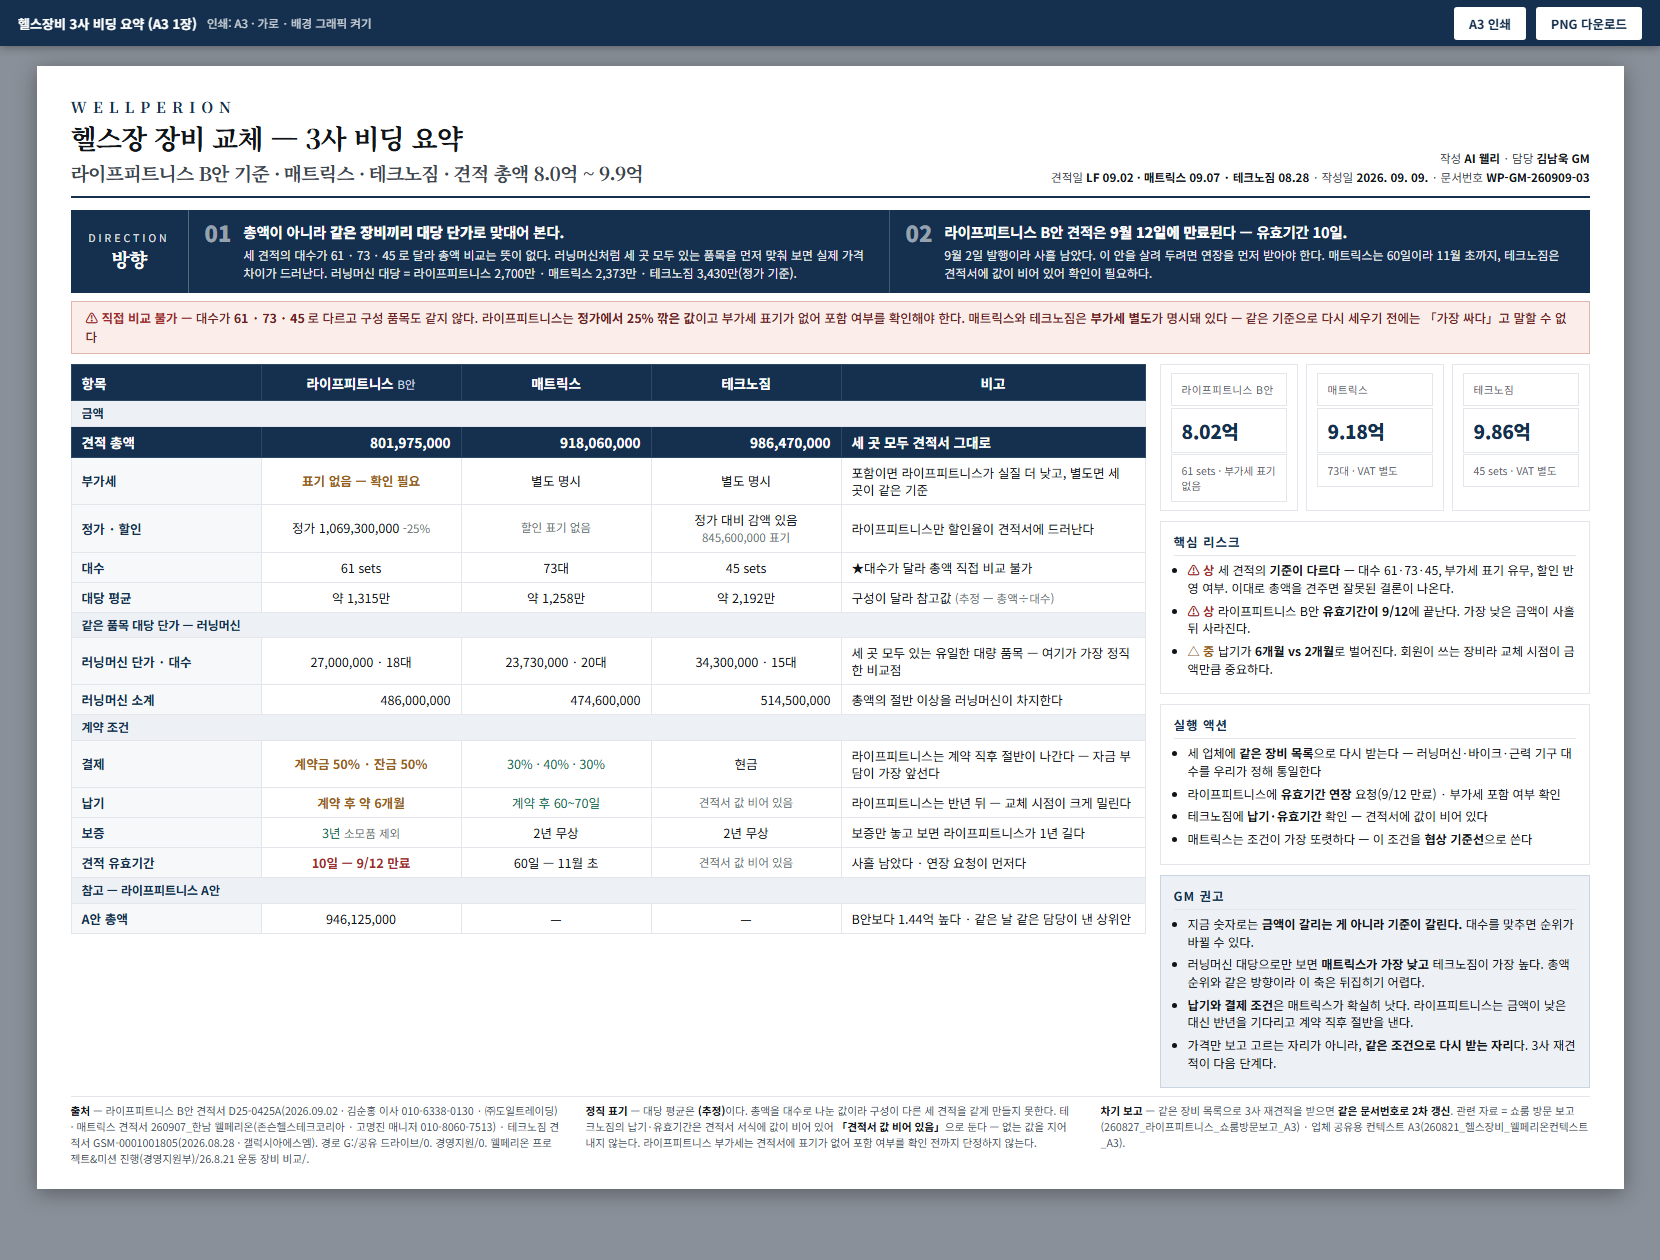
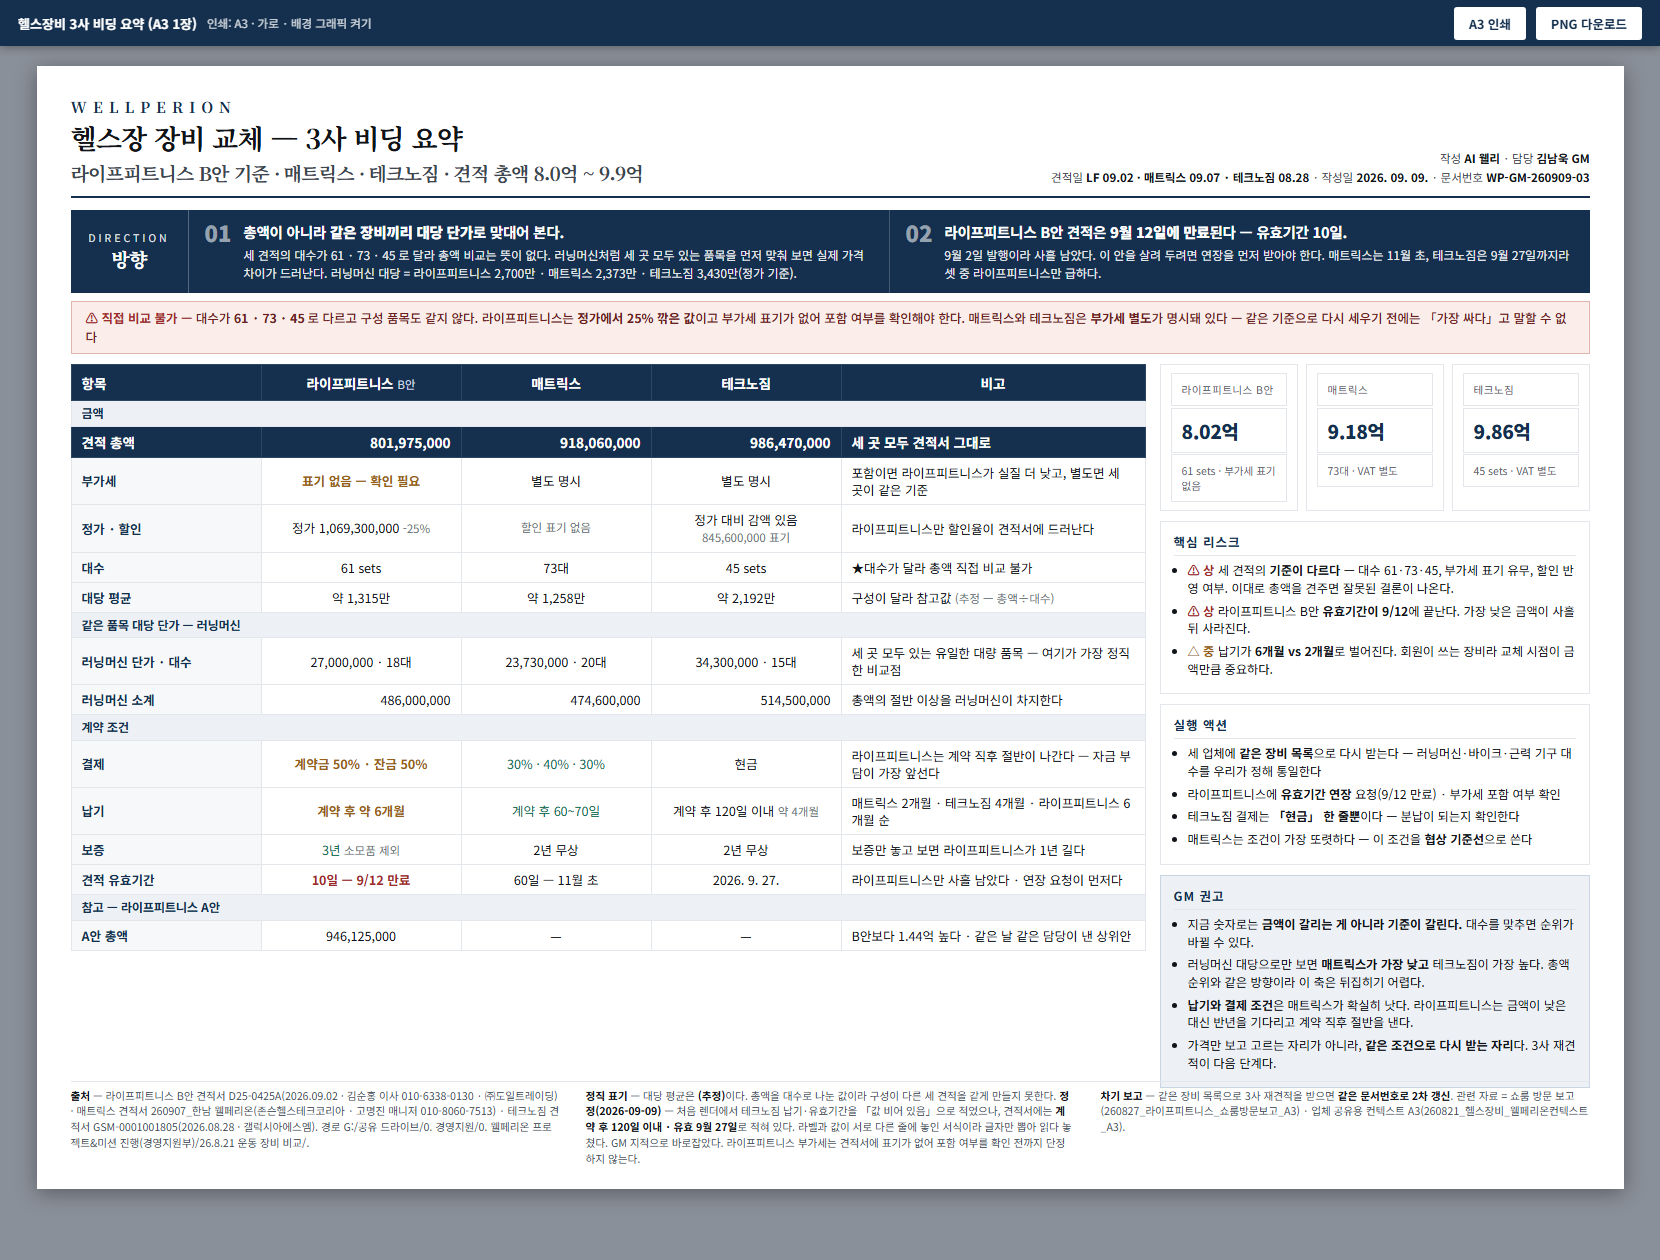
docs(gm): 헬스장비 3사 비딩 A3 정정 — 테크노짐 납기 120일·유효 9/27 (GM 지적)

diff --git a/3. 웰페리온 가이드/reports/260909_헬스장비_3사비딩_A3.html b/3. 웰페리온 가이드/reports/260909_헬스장비_3사비딩_A3.html
@@ -95,7 +95,7 @@
     <div class="lb"><span>DIRECTION</span><strong>방향</strong></div>
     <div class="items">
       <div class="it"><div class="n">01</div><div><div class="q">총액이 아니라 <b>같은 장비끼리 대당 단가</b>로 맞대어 본다.</div><div class="d">세 견적의 대수가 61 · 73 · 45 로 달라 총액 비교는 뜻이 없다. 러닝머신처럼 세 곳 모두 있는 품목을 먼저 맞춰 보면 실제 가격 차이가 드러난다. 러닝머신 대당 = 라이프피트니스 2,700만 · 매트릭스 2,373만 · 테크노짐 3,430만(정가 기준).</div></div></div>
-      <div class="it"><div class="n">02</div><div><div class="q">라이프피트니스 B안 견적은 <b>9월 12일에 만료</b>된다 — 유효기간 10일.</div><div class="d">9월 2일 발행이라 사흘 남았다. 이 안을 살려 두려면 연장을 먼저 받아야 한다. 매트릭스는 60일이라 11월 초까지, 테크노짐은 견적서에 값이 비어 있어 확인이 필요하다.</div></div></div>
+      <div class="it"><div class="n">02</div><div><div class="q">라이프피트니스 B안 견적은 <b>9월 12일에 만료</b>된다 — 유효기간 10일.</div><div class="d">9월 2일 발행이라 사흘 남았다. 이 안을 살려 두려면 연장을 먼저 받아야 한다. 매트릭스는 11월 초, 테크노짐은 9월 27일까지라 셋 중 라이프피트니스만 급하다.</div></div></div>
     </div>
   </div>
   <div class="alert">⚠ 직접 비교 불가 — <span>대수가 <b>61 · 73 · 45</b> 로 다르고 구성 품목도 같지 않다. 라이프피트니스는 <b>정가에서 25% 깎은 값</b>이고 부가세 표기가 없어 포함 여부를 확인해야 한다. 매트릭스와 테크노짐은 <b>부가세 별도</b>가 명시돼 있다 — 같은 기준으로 다시 세우기 전에는 「가장 싸다」고 말할 수 없다</span></div>
@@ -116,9 +116,9 @@
           <tr><td class="k">러닝머신 소계</td><td class="n">486,000,000</td><td class="n">474,600,000</td><td class="n">514,500,000</td><td>총액의 절반 이상을 러닝머신이 차지한다</td></tr>
           <tr class="grp"><td colspan="5">계약 조건</td></tr>
           <tr><td class="k">결제</td><td class="c warn">계약금 50% · 잔금 50%</td><td class="c" style="color:#146B4F">30% · 40% · 30%</td><td class="c">현금</td><td>라이프피트니스는 계약 직후 절반이 나간다 — 자금 부담이 가장 앞선다</td></tr>
-          <tr><td class="k">납기</td><td class="c warn">계약 후 약 6개월</td><td class="c" style="color:#146B4F">계약 후 60~70일</td><td class="c dim">견적서 값 비어 있음</td><td>라이프피트니스는 반년 뒤 — 교체 시점이 크게 밀린다</td></tr>
+          <tr><td class="k">납기</td><td class="c warn">계약 후 약 6개월</td><td class="c" style="color:#146B4F">계약 후 60~70일</td><td class="c">계약 후 120일 이내 <span class="dim">약 4개월</span></td><td>매트릭스 2개월 · 테크노짐 4개월 · 라이프피트니스 6개월 순</td></tr>
           <tr><td class="k">보증</td><td class="c" style="color:#146B4F">3년 <span class="dim">소모품 제외</span></td><td class="c">2년 무상</td><td class="c">2년 무상</td><td>보증만 놓고 보면 라이프피트니스가 1년 길다</td></tr>
-          <tr><td class="k">견적 유효기간</td><td class="c bad">10일 — 9/12 만료</td><td class="c">60일 — 11월 초</td><td class="c dim">견적서 값 비어 있음</td><td>사흘 남았다 · 연장 요청이 먼저다</td></tr>
+          <tr><td class="k">견적 유효기간</td><td class="c bad">10일 — 9/12 만료</td><td class="c">60일 — 11월 초</td><td class="c">2026. 9. 27.</td><td>라이프피트니스만 사흘 남았다 · 연장 요청이 먼저다</td></tr>
           <tr class="grp"><td colspan="5">참고 — 라이프피트니스 A안</td></tr>
           <tr><td class="k">A안 총액</td><td class="c">946,125,000</td><td class="c">—</td><td class="c">—</td><td>B안보다 1.44억 높다 · 같은 날 같은 담당이 낸 상위안</td></tr>
         </tbody>
@@ -144,7 +144,7 @@
         <ul>
           <li>세 업체에 <b>같은 장비 목록</b>으로 다시 받는다 — 러닝머신·바이크·근력 기구 대수를 우리가 정해 통일한다</li>
           <li>라이프피트니스에 <b>유효기간 연장</b> 요청(9/12 만료) · 부가세 포함 여부 확인</li>
-          <li>테크노짐에 <b>납기·유효기간</b> 확인 — 견적서에 값이 비어 있다</li>
+          <li>테크노짐 결제는 <b>「현금」 한 줄뿐</b>이다 — 분납이 되는지 확인한다</li>
           <li>매트릭스는 조건이 가장 또렷하다 — 이 조건을 <b>협상 기준선</b>으로 쓴다</li>
         </ul>
       </div>
@@ -162,7 +162,7 @@
 
   <div class="foot">
     <div><b>출처</b> — 라이프피트니스 B안 견적서 D25-0425A(2026.09.02 · 김순홍 이사 010-6338-0130 · ㈜도일트레이딩) · 매트릭스 견적서 260907_한남 웰페리온(존슨헬스테크코리아 · 고명진 매니저 010-8060-7513) · 테크노짐 견적서 GSM-0001001805(2026.08.28 · 갤럭시아에스엠). 경로 G:/공유 드라이브/0. 경영지원/0. 웰페리온 프로젝트&amp;미션 진행(경영지원부)/26.8.21 운동 장비 비교/.</div>
-    <div><b>정직 표기</b> — 대당 평균은 <b>(추정)</b>이다. 총액을 대수로 나눈 값이라 구성이 다른 세 견적을 같게 만들지 못한다. 테크노짐의 납기·유효기간은 견적서 서식에 값이 비어 있어 <b>「견적서 값 비어 있음」</b>으로 둔다 — 없는 값을 지어내지 않는다. 라이프피트니스 부가세는 견적서에 표기가 없어 포함 여부를 확인 전까지 단정하지 않는다.</div>
+    <div><b>정직 표기</b> — 대당 평균은 <b>(추정)</b>이다. 총액을 대수로 나눈 값이라 구성이 다른 세 견적을 같게 만들지 못한다. <b>정정(2026-09-09)</b> — 처음 렌더에서 테크노짐 납기·유효기간을 「값 비어 있음」으로 적었으나, 견적서에는 <b>계약 후 120일 이내 · 유효 9월 27일</b>로 적혀 있다. 라벨과 값이 서로 다른 줄에 놓인 서식이라 글자만 뽑아 읽다 놓쳤다. GM 지적으로 바로잡았다. 라이프피트니스 부가세는 견적서에 표기가 없어 포함 여부를 확인 전까지 단정하지 않는다.</div>
     <div><b>차기 보고</b> — 같은 장비 목록으로 3사 재견적을 받으면 <b>같은 문서번호로 2차 갱신</b>. 관련 자료 = 쇼룸 방문 보고(260827_라이프피트니스_쇼룸방문보고_A3) · 업체 공유용 컨텍스트 A3(260821_헬스장비_웰페리온컨텍스트_A3).</div>
   </div>
 </div>
